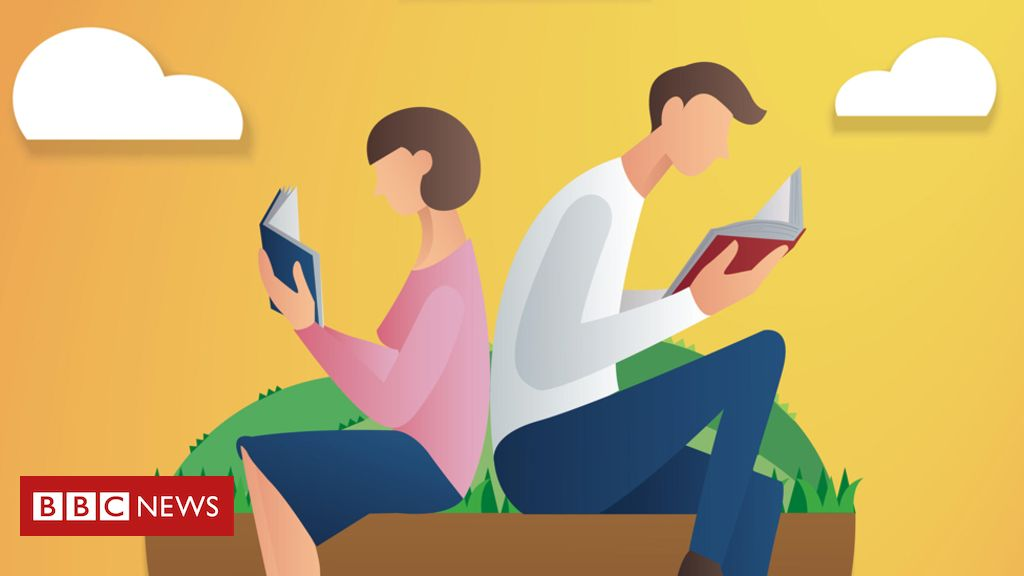
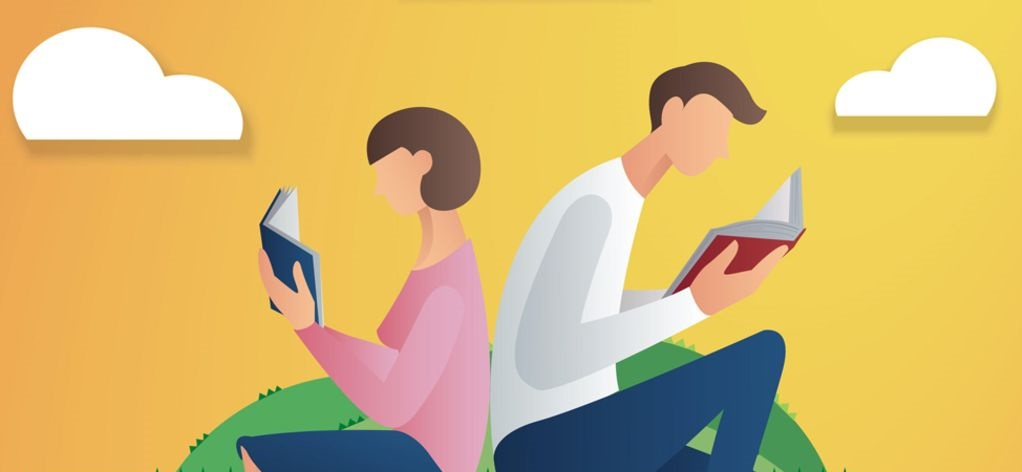
header card for homepage

diff --git a/public/index.html b/public/index.html
@@ -20,7 +20,7 @@
 </head>
 <body ng-controller="mainController" class="bg-light" ng-init="getBooks()">
 	<!-- Navigation bar -->
-		<nav class="navbar navbar-expand-lg navbar-light bg-light">
+		<nav class="navbar sticky-top navbar-expand-lg navbar-light bg-light">
 			<a class="navbar-brand" href="#"><img class="brand" src="css/images/favicon.png"></a>
 			<button class="navbar-toggler" type="button" data-toggle="collapse" data-target="#navbarSupportedContent" aria-controls="navbarSupportedContent" aria-expanded="false" aria-label="Toggle navigation">
 				<span class="navbar-toggler-icon"></span>
@@ -208,16 +208,29 @@
 
 	<!-- Home page  -->
 	<main role="main" ng-show="view==0">
-		<h1> Most Recent Books </h1>
-		<div ng-repeat="book in books">
-			<div class="card">
-				<div class="card-body">
-					<h5 class="card-title">{{book.title}}</h5>
-					<h6 class="card-subtitle mb-2">by {{book.author}}</h6>
-					<p class="card-text">{{book.genres}}</p>
-					<p ng-if="!book.rating" class="card-text">No Ratings</p>
+		<div class="row">
+			<div class="col-sm"></div>
+			<div class="col-sm">
+				<div class="card header">
+					<img class="card-img-top" src="css/images/header.png" alt="Card image cap">
+					<div class="card-body">
+						<p class="card-text">Get started with our curated reccomendations!</p>
+					</div>
+				</div>
+				<h4> Most Recent Books </h4>
+				<div ng-repeat="book in books">
+					<div class="card">
+						<div class="card-body">
+							<h5 class="card-title">{{book.title}}</h5>
+							<h6 class="card-subtitle mb-2">by {{book.author}}</h6>
+							<p class="card-text">{{book.genres}}</p>
+							<p ng-if="!book.rating" class="card-text">No Ratings</p>
+						</div>
+					</div>
 				</div>
 			</div>
+			<div class="col-sm"></div>
+		
 		</div>
 	</main>
 

diff --git a/public/css/index.css b/public/css/index.css
@@ -73,7 +73,7 @@ h5{
 }
 .card{
   margin: 0 auto;
-  width: 520px;
+  width: 100%;
   margin-bottom: 20px;
 }
 .btn-search{
@@ -91,6 +91,10 @@ h5{
   height: 50px;
   width: 50px;
 }
-h1{
+h4{
+  margin: 25px 10px;
   font-weight: 400;
+}
+.header{
+  margin-top: 20px;
 }
